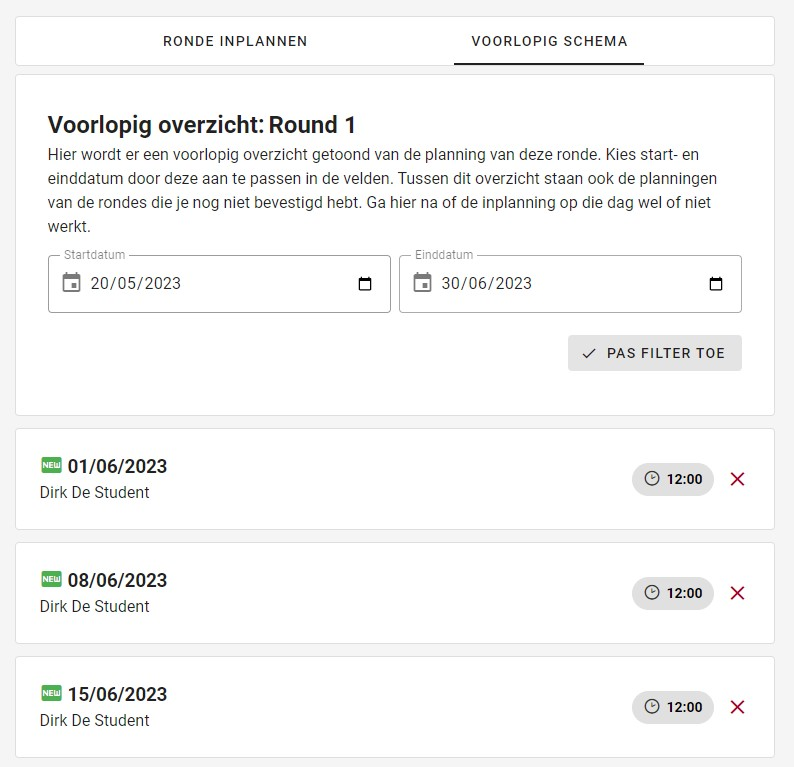
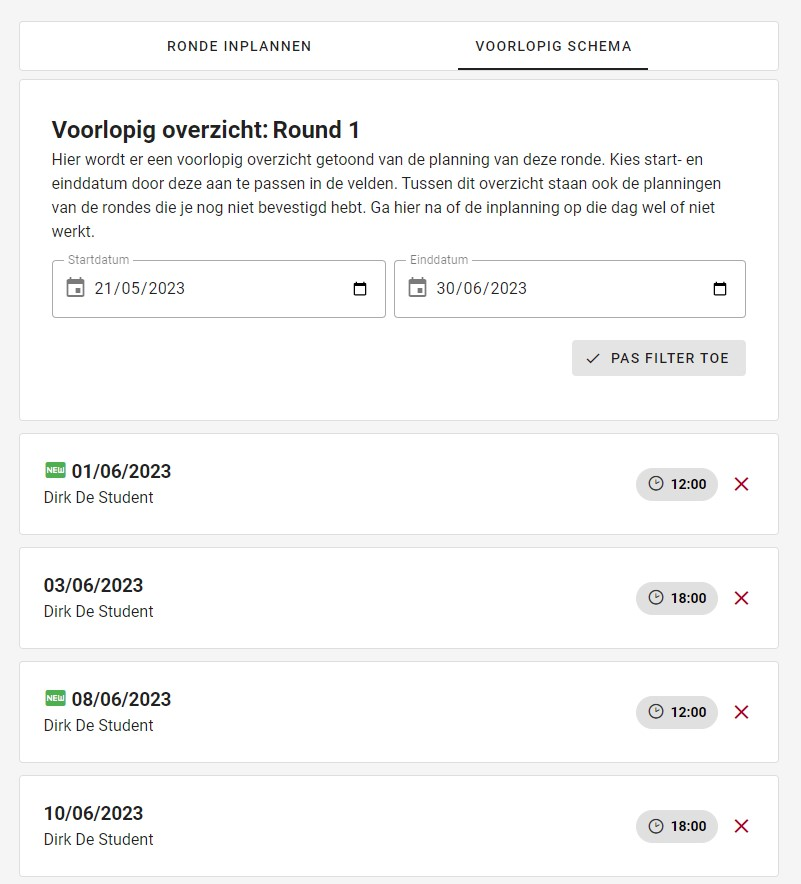
docs: schedule round schema

diff --git a/docs/manual/pages/ronde/ronde_inplannen.md b/docs/manual/pages/ronde/ronde_inplannen.md
@@ -27,12 +27,15 @@ Wanneer u op de knop ``tijdelijk toevoegen`` drukt, wordt de ronde toegevoegd aa
 U kan op dit moment dus nog rondes toevoegen of verwijderen.
 
 ### 6. Voorlopig schema
-Hier ziet u een duidelijker overzicht van de taken die aan het voorlopig schema zijn toegevoegd,
+Hier ziet u een duidelijker overzicht van de taken die u net aan het voorlopig schema heeft toegevoegd,
+samen met de reeds ingeplande taken van deze ronde,
 waarbij u kunt filteren op datum.
+De taken met de tag ``new`` zijn degene die u zojuist aan het voorlopig schema heeft toegevoegd.
 
 |            Voorlopig schema            |
 |:--------------------------------------:|
 | ![](../../assets/schedule_round_2.jpg) |
+
 
 ### 7. Inplannen
 Wanneer u op de knop ``inplannen`` drukt, plant u het voorlopig schema in.
